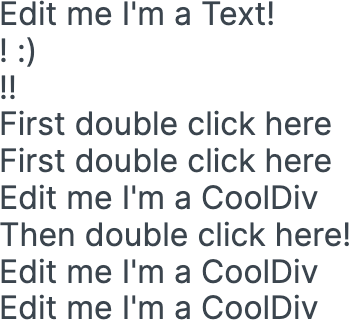
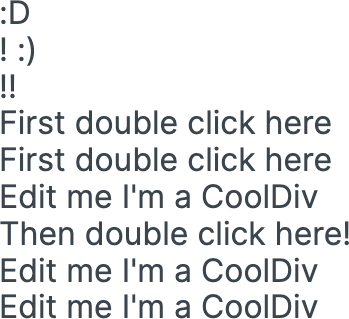
[ecu] Add component Div to App

diff --git a/app/src/App.tsx b/app/src/App.tsx
@@ -1,7 +1,7 @@
 /* --
   * IMPORTS START
 -- */
-import { Text } from 'ecu'
+import { Div, Text } from 'ecu'
 
 import DualCoolDivs from './components/DualCoolDivs'
 import CoolDiv from './components/CoolDiv'
@@ -39,7 +39,7 @@ The app, splendid!
 function App(props: AppPropsType) {
   return (
     <>
-      <Text data-ecu="hxtLeUVgve:0">:D</Text>
+      <Div data-ecu="hxtLeUVgve:0"><Text data-ecu="hxtLeUVgve:0_0">:D</Text></Div>
       <Text data-ecu="hxtLeUVgve:1">! :)</Text>
       <Text data-ecu="hxtLeUVgve:2">!!</Text>
       <Text data-ecu="hxtLeUVgve:3">First double click here</Text>
